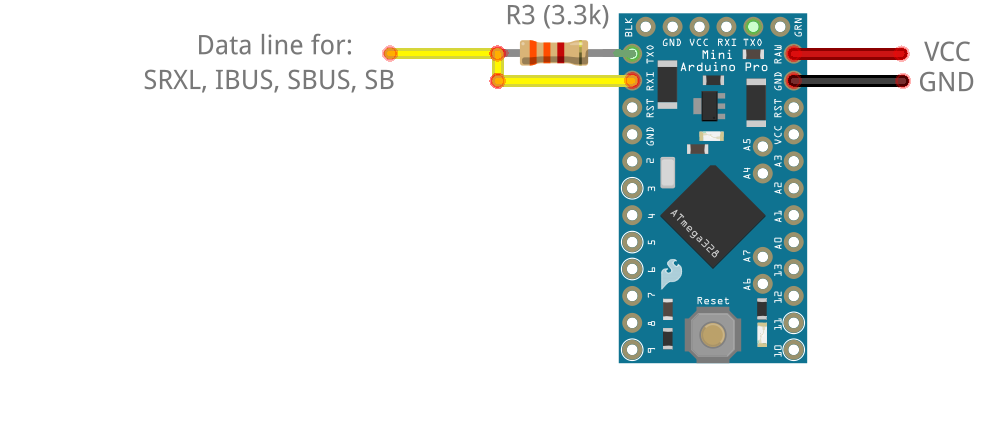
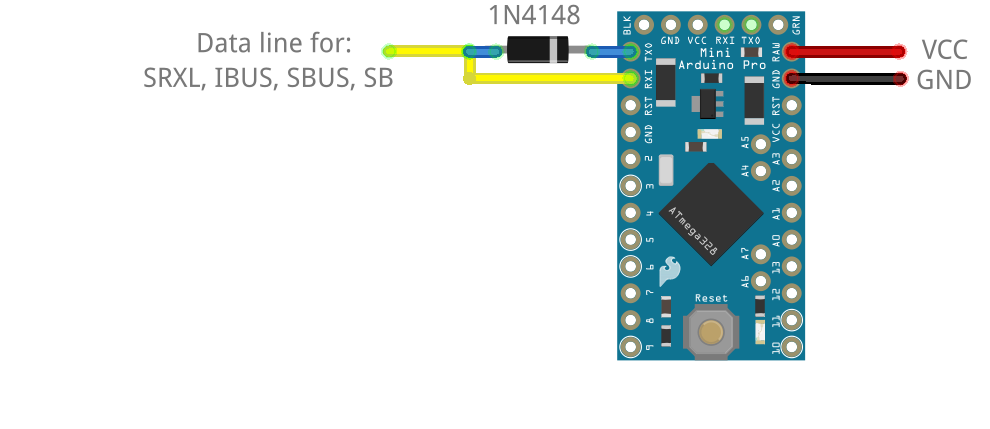
Update avr half duplex

Changed region(s): [[0.1515, 0.0, 1.0, 0.8485]]

diff --git a/README.md b/README.md
@@ -97,6 +97,8 @@ Depending on the receiver protocol connect to the Rx as follows
 <p align="center"><img src="./images/srxl_ibus_sbus_sb.png" width="350"><br>
 <i>SRXL, IBUS, SBUS (SBUS ATmega 8Mhz + signal inverter)</i><br><br></p>
 
+1N4148 diode is preferred, but it can be substituted by a 100Ω resistor or removed and connect Tx to Rx directly
+
 ### ARM Cortex boards 
 
 <p align="center"><img src="./images/frsk_smartport_srxl_ibus_sbus_teensy.png" width="350"><br>
